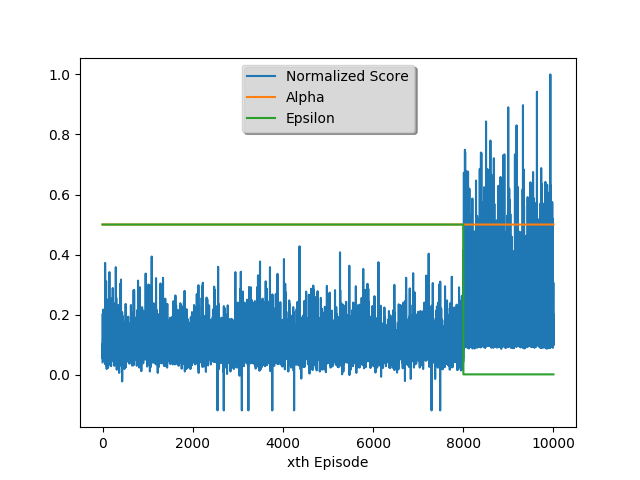
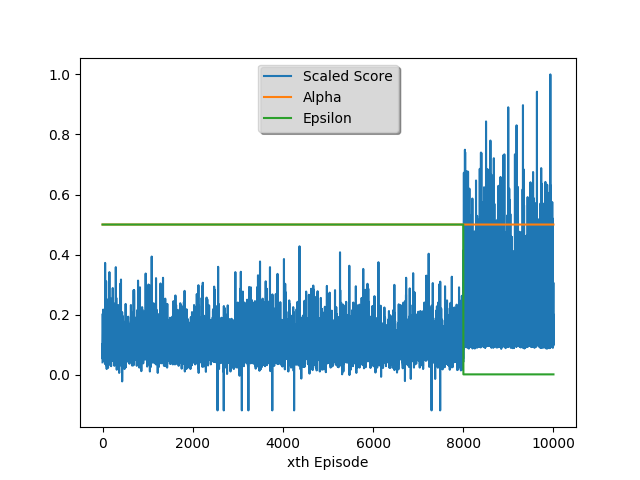
Changing legends in preview

Changed region(s): [[0.4375, 0.125, 0.6562, 0.2812], [0.375, 0.125, 0.4062, 0.2812]]

diff --git a/README.md b/README.md
@@ -15,7 +15,7 @@ Mean Snake Length | 59.125| 47.400| 5.41
 Time-Real | 1m14.105s (40 runs) | 40m (40 runs)| 1m21.371s (2000 episodes)
 Time-User | 0m6.547s  (40 runs)| 40m (40 runs)| 1m21.163s (2000 episodes)
 Time-System | 0m0.980s  (40 runs)| 0m (40 runs)|0m0.457s (2000 episodes)
-Misc| None|  Depth=6| FeatureExtractor: simpleFeatureExtractor3, Scores scaled by 1/max(scores) and not normalized|
+Misc| None|  Depth=6| FeatureExtractor: simpleFeatureExtractor3|
 
 
 ## Installation
